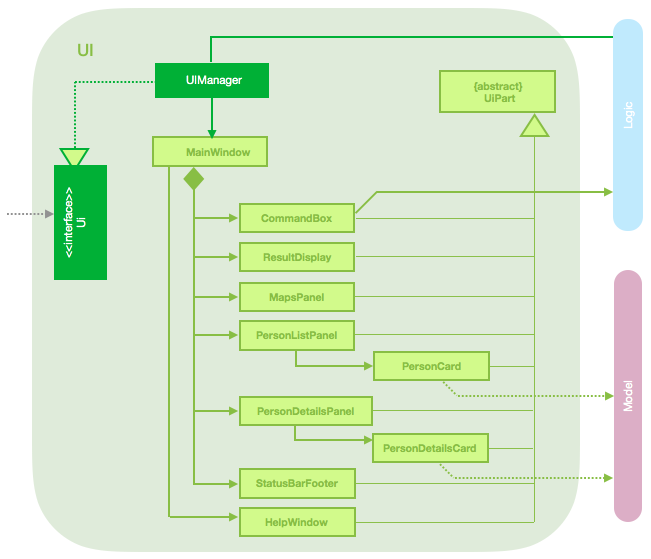
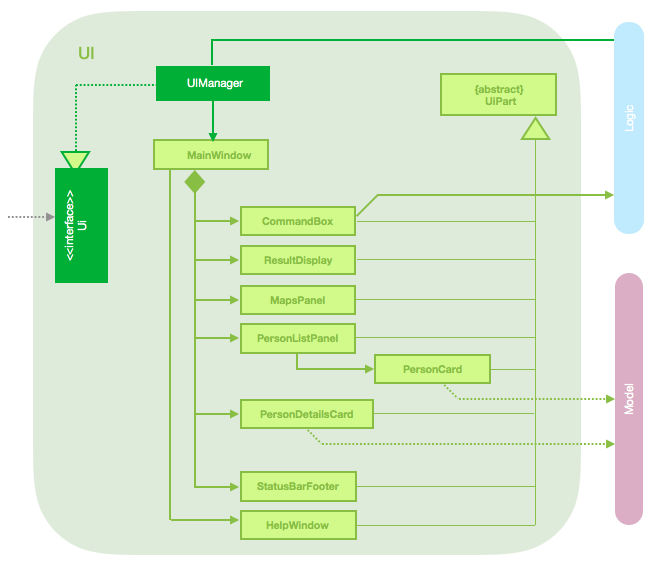
UiClassDiagram.png: remove PersonDetailsPanel MainWindow.java: update personDetailsPanel with personDetailsCard PersonDetailsCard.java: Update the author tag for unused code PersonDetailsCard.fxml: Update the author tag for unused code LoginWindow.fxml: Update the author tag for unused code

diff --git a/src/main/java/seedu/address/ui/MainWindow.java b/src/main/java/seedu/address/ui/MainWindow.java
@@ -42,7 +42,7 @@ public class MainWindow extends UiPart<Region> {
     // Independent Ui parts residing in this Ui container
     private MapsPanel mapsPanel;
     private PersonListPanel personListPanel;
-    private PersonDetailsCard personDetailsPanel;
+    private PersonDetailsCard personDetailsCard;
     private Config config;
     private UserPrefs prefs;
 
@@ -146,8 +146,8 @@ public class MainWindow extends UiPart<Region> {
         mapsPanel = new MapsPanel();
         mapsPlaceholder.getChildren().add(mapsPanel.getRoot());
 
-        personDetailsPanel = new PersonDetailsCard(logic.getFilteredPersonList());
-        personDetailsPanelHolder.getChildren().add(personDetailsPanel.getRoot());
+        personDetailsCard = new PersonDetailsCard(logic.getFilteredPersonList());
+        personDetailsPanelHolder.getChildren().add(personDetailsCard.getRoot());
 
         personListPanel = new PersonListPanel(logic.getFilteredPersonList());
         personListPanelPlaceholder.getChildren().add(personListPanel.getRoot());

diff --git a/src/main/java/seedu/address/ui/PersonDetailsCard.java b/src/main/java/seedu/address/ui/PersonDetailsCard.java
@@ -1,4 +1,4 @@
-//@@author aggarwalRuchir
+//@@author aggarwalRuchir-unused
 package seedu.address.ui;
 
 import java.io.File;
@@ -23,7 +23,6 @@ import javafx.scene.shape.Circle;
 import seedu.address.commons.core.LogsCenter;
 import seedu.address.commons.events.model.AddressBookChangedEvent;
 import seedu.address.commons.events.ui.PersonPanelSelectionChangedEvent;
-import seedu.address.model.ReadOnlyAddressBook;
 import seedu.address.model.person.ReadOnlyPerson;
 
 public class PersonDetailsCard extends UiPart<Region> {
